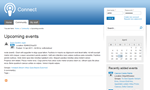
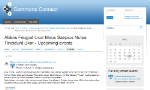
Connect update

diff --git a/docroot/profiles/drupal_commons/themes/commons_connect/css/ie7-fixes.css b/docroot/profiles/drupal_commons/themes/commons_connect/css/ie7-fixes.css
@@ -73,7 +73,7 @@ overflow: hidden;
 	clear:both;
 }
 
-#block-views-groups_featured_groups-block_1 .content .views-row .views-field-description { float:right; width:410px; }
+
 li.views-row {
     background: none repeat scroll 0 0 transparent;
     border-bottom: 1px solid #DBDBDB;

diff --git a/docroot/profiles/drupal_commons/themes/commons_connect/css/commons_connect-style.css b/docroot/profiles/drupal_commons/themes/commons_connect/css/commons_connect-style.css
@@ -759,10 +759,6 @@ h2.title a:active {
 	font-weight: bold;
 }
 
-.submitted img.imagecache-user_picture_meta {
-  padding: 4px 5px 0 0;
-  float: left;
-}
 
 .submitted .user_badges {
   display: inline;

diff --git a/docroot/profiles/drupal_commons/themes/commons_connect/template.php b/docroot/profiles/drupal_commons/themes/commons_connect/template.php
@@ -13,65 +13,6 @@ function commons_connect_breadcrumb($breadcrumb) {
   }
 }
 
-
-
-/**
- * Node preprocessing
- */
-function commons_connect_preprocess_node(&$vars) {
-  // Only build custom submitted information if it was first available
-  // If it's not, that indicates that it's been turned off for this
-  // node type
-  if ($vars['submitted']) {
-    // Load the node author
-    $author = user_load($vars['node']->uid);
-  
-    // Author picture
-    if (theme_get_setting('toggle_node_user_picture')) {
-      $picture = $vars['picture'];
-      unset($vars['picture']);
-      $submitted = ($author->uid && user_access('access user profiles')) ? l($picture, "user/{$author->uid}", array('html' => TRUE)) : $picture;
-    }
-    
-    // Author information
-    $submitted .= '<span class="submitted-by">';
-    $submitted .= t('Submitted by !name', array('!name' => theme('username', $author)));
-    $submitted .= '</span>';
-    
-    // User points
-    if ($author->uid && module_exists('userpoints')) {
-      $points = userpoints_get_current_points($author->uid);
-      $submitted .= '<span class="userpoints-value" title="' . t('!val user points', array('!val' => $points)) . '">';
-      $submitted .= "({$points})"; 
-      $submitted .= '</span>';
-    }
-    
-    // User badges
-    if ($author->uid && module_exists('user_badges')) {
-      if (is_array($author->badges)) {
-        foreach ($author->badges as $badge) {
-          $badges[] = theme('user_badge', $badge, $author);
-        }
-      }
-    
-      if (!empty($badges)) {
-        $submitted .= theme('user_badge_group', $badges);
-      }
-    }
-    
-    // Created time
-    $submitted .= '<span class="submitted-on">';
-    $submitted .= format_date($vars['node']->created);
-    $submitted .= '</span>';
-    
-    $vars['submitted'] = $submitted;
-	
-  
-  }
-}
-
-
-
 /**
  * Page preprocessing
  */
